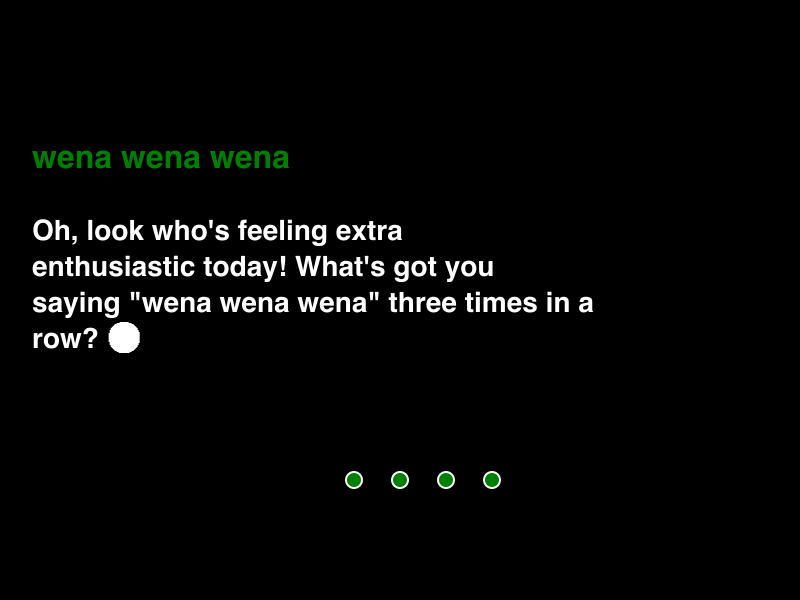
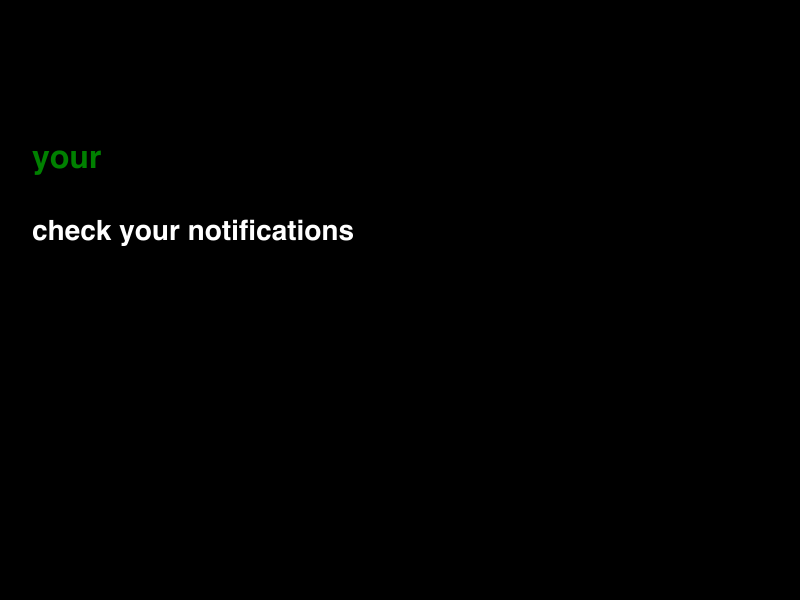
alojag

Changed region(s): [[0.0312, 0.36, 0.75, 0.6], [0.0312, 0.24, 0.375, 0.3], [0.4062, 0.78, 0.625, 0.81]]

diff --git a/routes/farhack/index.js b/routes/farhack/index.js
@@ -44,7 +44,7 @@ router.get("/", async (req, res) => {
 router.get("/image", async (req, res) => {
   try {
     const imageCopy = decodeURIComponent(req.query.text);
-    console.log("THE IMAGE COPY IS: ", imageCopy);
+    console.log("the image copy is: ", req.query.text, imageCopy);
     const userPrompt = decodeURIComponent(req.query.userPrompt) || "";
     const imageWidth = 800;
     const imageHeight = 600;
@@ -175,6 +175,7 @@ router.post("/second-frame", async (req, res) => {
   try {
     let imageCopy;
     const fullUrl = req.protocol + "://" + req.get("host");
+    let millisecondsPerHours = 8 * 60 * 60 * 1000;
     if (req.body.untrustedData.inputText) {
       let inputText = req.body.untrustedData.inputText;
       let isValidNumber = Number(inputText);
@@ -252,28 +253,24 @@ router.post("/second-frame", async (req, res) => {
         const responseFromReplying = await replyToThisUserRightNow(
           req.body.untrustedData.fid
         );
-        if (responseFromReplying.success) {
-          let thisHeader = `your wishes are my commands.`;
-          imageCopy = `check your notifications`;
-          return res.status(200).send(`
-        <!DOCTYPE html>
-        <html>
-        <head>
-          <title>${botName}</title>
-          <meta property="og:title" content="anky mint">
-          <meta property="og:image" content=${fullUrl}/farhack/image?text=}>
-          <meta name="fc:frame" content="vNext">
-          <meta name="fc:frame:image" content=${fullUrl}/farhack/image?text=${encodeURIComponent(
-            imageCopy
-          )}&userPrompt=${encodeURIComponent(thisHeader)}>
-          <meta name="fc:frame:post_url" content="${fullUrl}/farhack/second-frame" />
-          </head>
-        </html>
-          `);
-        }
-      } else {
-        imageCopy = "you are all set";
-        return res.status(200).send(`
+      } else if (Number(req.body.untrustedData.buttonIndex) == 2) {
+        await replyToThisUserRightNow(req.body.untrustedData.fid);
+        setTimeout(() => {
+          replyToThisUserRightNow(req.body.untrustedData.fid);
+        }, (millisecondsPerHours * 6) / 10);
+      } else if (Number(req.body.untrustedData.buttonIndex) == 3) {
+        await replyToThisUserRightNow(req.body.untrustedData.fid);
+        setTimeout(() => {
+          replyToThisUserRightNow(req.body.untrustedData.fid);
+        }, millisecondsPerHours * 2);
+        setTimeout(() => {
+          replyToThisUserRightNow(req.body.untrustedData.fid);
+        }, millisecondsPerHours * 3);
+      }
+      let theUserPrompt = "your wishes are my commands.";
+      imageCopy = "check your notifications";
+
+      return res.status(200).send(`
           <!DOCTYPE html>
           <html>
           <head>
@@ -282,13 +279,12 @@ router.post("/second-frame", async (req, res) => {
             <meta property="og:image" content=${fullUrl}/farhack/image?text=}>
             <meta name="fc:frame" content="vNext">
             <meta name="fc:frame:image" content=${fullUrl}/farhack/image?text=${encodeURIComponent(
-          imageCopy
-        )}&userPrompt=${req.body.untrustedData.buttonIndex}>
+        imageCopy
+      )}&userPrompt=${theUserPrompt}>
             <meta name="fc:frame:post_url" content="${fullUrl}/farhack/second-frame" />
             </head>
           </html>
             `);
-      }
     }
 
     imageCopy = "are you sure?";
@@ -569,14 +565,8 @@ async function createInstantaneousCastForThisUser(fid) {
 
 async function updateUserWithReplyFrequency(fid, replyFrequency) {
   try {
-    const prismaResponse = await prisma.user.updateUnique({
-      where: {
-        fid: fid,
-      },
-      data: {
-        replyFrequency: replyFrequency,
-      },
-    });
+    console.log("the reply frequency is ", replyFrequency);
+    console.log("fid", fid);
     return { success: true };
   } catch (error) {
     console.log("there was an error on the reply frequency", error);
@@ -590,7 +580,7 @@ async function getBotInitialReply(userFid) {
     const messages = [
       {
         role: "system",
-        content: `Say something funny to the user, but on a sarcastic language. your mission is to make the user smile.`,
+        content: `Say something funny to the user, but on a sarcastic language. your mission is to make the user smile. Less than 280 characters.`,
       },
       { role: "user", content: "" },
     ];
@@ -748,7 +738,7 @@ async function findCastAndGetTextToReplyToUser(fid, randomCast) {
     const messages = [
       {
         role: "system",
-        content: `Your mission is to tease the user. Please reply to this message with less than 300 characters, teasing the person that will read. This text will be replied to the following cast:`,
+        content: `Your mission is to tease the user. Please reply to this message with less than 300 characters, teasing the person that will read. Less than 280 characters. This text will be replied to the following cast:`,
       },
       { role: "user", content: randomCast.text },
     ];
